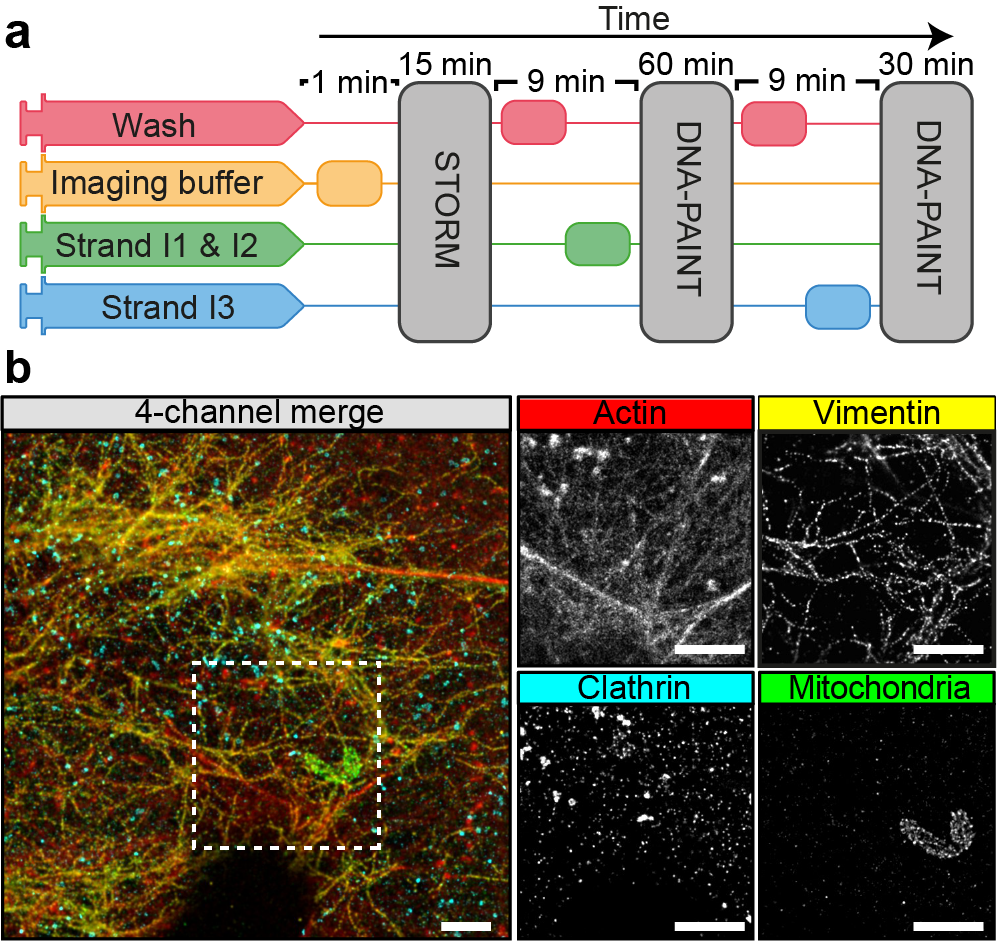
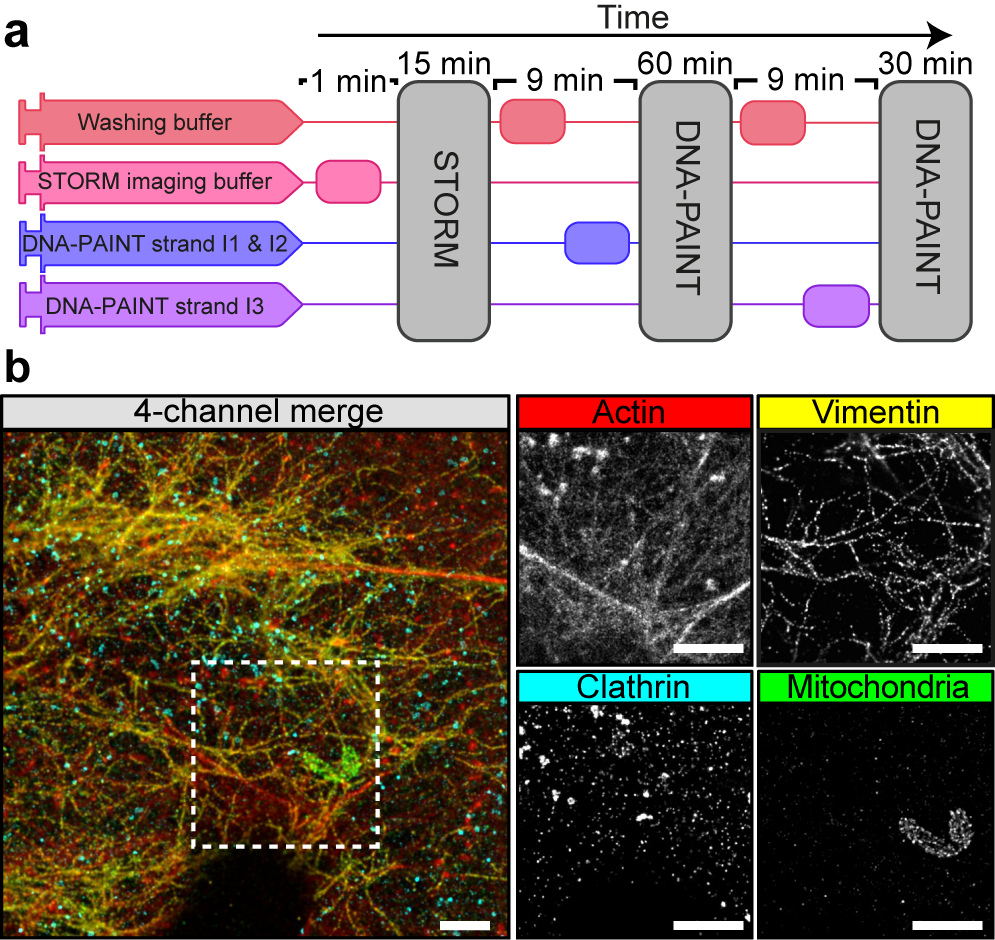
Christophe pass on the manuscript

diff --git a/01_Article_MainText.tex b/01_Article_MainText.tex
@@ -27,7 +27,7 @@
 \affil[2]{Department of Cell and Developmental Biology, University College London, London, UK}
 \affil[3]{The Francis Crick Institute, London, UK}
 \affil[4]{Centre for Mathematics and Physics in Life Sciences and Experimental Biology (CoMPLEX), University College London, London, UK}
-\affil[5]{Aix Marseille Université, CNRS, INP UMR7051, Marseille, France}
+\affil[5]{Aix-Marseille Univ, CNRS, INP, Inst Neurophysiopathol, NeuroCyto, Marseille, France}
 \affil[6]{Institute for the Physics of Living Systems, University College London, London, UK}
 \affil[7]{Department of Molecular Biosciences, The Wenner-Gren Institute, Stockholm University, Stockholm, Sweden}
 
@@ -39,14 +39,14 @@
 \begin{abstract}
 %Lets try to keep the abstract between 70-150 words, I have noticed no guidance
 
-Super-Resolution Microscopy has become essential for the study of many nanoscale biological processes. This type of imaging considerably relies on specialised image analysis tools to routinely process large volumes of recorded data and robustly extract underlying quantitative information. In recent years, our team has built an image analysis framework for Super-Resolution Microscopy that is high-performance, open-source and ease of use. We name it NanoJ - a reference to the popular ImageJ software it was developed for. In this paper, we highlight the current capabilities of NanoJ for use in several essential steps of microscopy studies: spatiotemporal alignment of raw data (NanoJ-Core), Super-Resolution image reconstruction (NanoJ-SRRF), image quality assessment (NanoJ-SQUIRREL), structural modelling (NanoJ-VirusMapper) and control of the sample environment (NanoJ-Fluidics). We are constantly expanding NanoJ with the aim to improve quantitative analysis and reliability of biological microscopy studies.
+Super-resolution microscopy has become essential for the study of nanoscale biological processes. This type of imaging often implies the use of specialised image analysis tools to process a large volume of recorded data and extract quantitative information. In recent years, our team has built an open-source image analysis framework for super-resolution microscopy designed to combine for high performance and ease of use. We named it NanoJ - a reference to the popular ImageJ software it was developed for. In this paper, we highlight the current capabilities of NanoJ for several essential processing steps: spatiotemporal alignment of raw data (NanoJ-Core), super-resolution image reconstruction (NanoJ-SRRF), image quality assessment (NanoJ-SQUIRREL), structural modelling (NanoJ-VirusMapper) and control of the sample environment (NanoJ-Fluidics). We are constantly expanding NanoJ with the aim of improving quantitative analysis and thus foster the reliability of biological microscopy studies.
 
 \end {abstract}
 %TC:break main
 %the command above serves to have a word count for the abstract
 
 \begin{keywords}
-    ImageJ | Fiji | Super-Resolution Microscopy | Image Analysis | Fluidics | Resolution | Quantitative imaging | Modelling
+    ImageJ | Fiji | super-resolution microscopy | Image analysis | Fluidics | Resolution | Quantitative imaging | Modelling
 \end{keywords}
 
 \begin{corrauthor}
@@ -59,13 +59,13 @@ Super-Resolution Microscopy has become essential for the study of many nanoscale
 % ------------------------------------------------------------------------------------------------------------------------------------
 
 \subsection*{Introduction}
-Fluorescence microscopy has been ubiquitously used in biological studies since its invention in the 20\textsuperscript{th} century. It underpins most research observing structures and interactions between specifically labelled molecules, and allows the quantification of their dynamic behaviour in living cells \cite{rino2009frontiers}. Extraction of this biologically relevant quantitative information from fluorescence microscopy data typically requires digital image processing and analysis \cite{wheeler2017standard}. In recent years, Super-Resolution Microscopy (SRM) techniques \cite{betzig2006imaging,rust2006sub,hell1994breaking} have extended the spatial resolving power of fluorescence microscopy beyond that of the diffraction limit. However, most SRM techniques generate large quantities of data, often reaching several gigabytes of raw data for a single image, and thus require specialised high-performance image analysis tools.  Several SRM image processing packages are available, such as ThunderSTORM \cite{ovesny2014thunderstorm}, LAMA \cite{Malkusch2016LAMA} and SIMcheck \cite{schermelleh2015simcheck}, but each of these is focused on a specific type of SRM modality.
+Fluorescence microscopy has been ubiquitously used in biological studies since its invention in the 20\textsuperscript{th} century. It underpins most research observing structures and interactions between specifically labelled molecules, and allows the quantification of their dynamic behaviour in living cells \cite{rino2009frontiers}. Extraction of this biologically relevant quantitative information from fluorescence microscopy data typically requires digital image processing and analysis \cite{wheeler2017standard}. In recent years, Super-Resolution Microscopy (SRM) techniques \cite{betzig2006imaging,rust2006sub,hell1994breaking} have extended the spatial resolving power of fluorescence microscopy beyond that of the diffraction limit. However, most SRM techniques generate large quantities of raw data, often reaching several gigabytes for a single image, and thus requires specialised high-performance image analysis tools.  Several SRM image processing packages are available, such as ThunderSTORM \cite{ovesny2014thunderstorm}, LAMA \cite{Malkusch2016LAMA} and SIMcheck \cite{schermelleh2015simcheck}, but each of these is focused on a specific type of SRM modality.
   
  %TC:ignore
  \begin{figure}[!t]
     \centering
     \includegraphics[width=\linewidth]{Figures/FigureMain_v3.png}
-    \caption{\textbf{NanoJ framework.} Currently NanoJ consists of 5 modules dedicated to enable super-resolution imaging and analysis.}
+    \caption{\textbf{NanoJ framework.} Currently NanoJ consists of 5 modules dedicated to super-resolution imaging and analysis.}
     \label{fig:GeneralDiagram}
  \end{figure}
  %TC:endignore
@@ -91,7 +91,7 @@ Sample drift commonly occurs during the acquisition of SRM data, often as a resu
  \end{figure}
  %TC:endignore
 
- NanoJ breaks the task of drift correction into two distinct parts: estimation, followed by translation. As a first step NanoJ-Core estimates the linear drift between two images by calculating their cross-correlation matrix (CCM) (Fig. \ref{fig:DriftCorrection}b). The location of the peak intensity in the CCM determines the linear shift between the two images, and precise sub-pixel accuracy is achieved by up-scaling the CCM using a bicubic spline interpolation. Depending on the type of acquisition, the reference frame can either be the first frame of the raw data (e.g. for a fixed sample) or the immediately preceding frame (for a live sample). Fig. \ref{fig:DriftCorrection}d shows the drift in a 100-frame dataset as measured with respect to the first frame of the dataset. Once drift is estimated, the dataset can be directly corrected by analytically translating each individual frame using a bicubic spline interpolation (Fig. \ref{fig:DriftCorrection}c). The interpolation process will however change the noise properties of the resulting dataset \cite{blaysat2016effect}.
+ NanoJ breaks the task of drift correction into two distinct parts: estimation, followed by translation. As a first step NanoJ-Core estimates the linear drift between two images by calculating their cross-correlation matrix (CCM) (Fig. \ref{fig:DriftCorrection}b). The location of the peak intensity in the CCM determines the linear shift between the two images, and precise sub-pixel accuracy is achieved by up-scaling the CCM using a bicubic spline interpolation. Depending on the type of acquisition, the reference frame can either be the first frame of the raw data (e.g. for a fixed sample) or the immediately preceding frame (for a live sample). Fig. \ref{fig:DriftCorrection}d shows the drift in a 100-frame dataset as measured with respect to the first frame. Once drift is estimated, the dataset can be directly corrected by analytically translating each individual frame using a bicubic spline interpolation (Fig. \ref{fig:DriftCorrection}c). The interpolation process will however change the noise properties of the resulting dataset \cite{blaysat2016effect}.
  
  For the specific case of SMLM datasets with sparse blinking, there will only be a weak correlation across frames, as there is little observable structure conserved between consecutive time points. One common strategy to alleviate this low correlation is to add fiduciary landmarks to the sample, such as static fluorescent beads. Alternatively, NanoJ-Core can temporally bin the dataset thus increasing the correlation between binned frames and allowing their shift to be more accurately estimated \cite{mlodzianoski2011sample}. 
 
@@ -103,7 +103,7 @@ In multicolour fluorescence microscopy, images acquired in different spectral ch
  
  The shift between different spectral channels is usually inhomogeneous across a field of view, which prevents the use of typical CCM-based approaches such as the one described above in NanoJ-Core Drift Correction. In order to characterise the spectral misalignment across a field of view, it is necessary to image a sample that has the same structure present across several different wavelengths. Furthermore, the sample should contain structures occupying the whole field of view. A typical sample for this characterisation is a coverslip coated with a large number of beads labelled with multiple different dyes \cite{Demmerle2017}. Following multicolour imaging of this sample, NanoJ-Core can be used to calculate a non-linear two-dimensional spatial transform describing the misalignment for each channel relative to a 'reference' channel (Fig. \ref{fig:ChannelAlignment}a). NanoJ-Core can then apply these transforms to realign other multicolour datasets acquired using the same optical path (Fig. \ref{fig:ChannelAlignment}b) \cite{arganda2006consistent,annibale2012identification}. 
  
- To generate these non-linear misalignment fields NanoJ-Core first calculates local, quasi-linear misalignments between channels. This is achieved by dividing the image into small areas ('blocks'). For each block, the shift between the channel to be realigned and the reference channel is calculated by finding the cross-correlation peak position as shown in Fig. \ref{fig:DriftCorrection}a-b. These local shift values are then  interpolated across the whole field-of-view using an inverse distance weighting interpolation \cite{shepard1968two}, thus generating two smooth 'shift' maps describing the misalignments in the horizontal and vertical directions (Fig. \ref{fig:ChannelAlignment}b). For a given channel, each pixel value within the horizontal/vertical shift map indicates the horizontal/vertical displacement that needs to be applied to that pixel to align it with the reference channel. NanoJ-Core can then be used to apply these maps to align channels in the original dataset (e.g. Fig. \ref{fig:ChannelAlignment}a, 'After alignment') or other datasets provided they have been acquired using the same optical configuration.
+ To generate these non-linear misalignment fields NanoJ-Core first calculates local, quasi-linear misalignments between channels. This is achieved by dividing the image into small areas ('blocks'). For each block, the shift between the channel to be realigned and the reference channel is calculated by finding the cross-correlation peak position as shown in Fig. \ref{fig:DriftCorrection}a-b. These local shift values are then  interpolated across the whole field-of-view using an inverse distance weighting interpolation \cite{shepard1968two}. This generates two smooth 'shift' maps describing the misalignments in the horizontal and vertical directions (Fig. \ref{fig:ChannelAlignment}b). For a given channel, each pixel value within the horizontal/vertical shift map indicates the horizontal/vertical displacement that needs to be applied to that pixel to align it with the reference channel. NanoJ-Core can then be used to apply these maps to align channels in the original dataset (e.g. Fig. \ref{fig:ChannelAlignment}a, 'After alignment'), or other datasets, provided they have been acquired using the same optical configuration.
  
  \begin{figure}[!t]
     \centering
@@ -112,7 +112,7 @@ In multicolour fluorescence microscopy, images acquired in different spectral ch
     \label{fig:ChannelAlignment}
 \end{figure}
  
- NanoJ-Core performs the channel alignment correction by creating a new image representing each channel, where the intensity value for each pixel coordinate corresponds to the intensity value from the original image at the equivalent coordinate corrected for local shift. For the cases where these coordinates are not discrete (sub-pixel shift), a bicubic spline interpolation is used to recover pixel values in continuous space. Because the shift map can be extrapolated to continuous space, the alignment procedure obtained from diffraction-limited images can also easily be used to correct SRM datasets acquired using the same optics.
+ NanoJ-Core performs the channel alignment correction by creating a new image representing each channel, where the intensity value for each pixel coordinate corresponds to the intensity value from the original image at the equivalent coordinate corrected for local shift. For cases in which these coordinates are not discrete (sub-pixel shift), a bicubic spline interpolation is used to recover pixel values in continuous space. Because the shift map can be extrapolated to continuous space, the alignment procedure obtained from diffraction-limited images can also easily be used to correct SRM datasets acquired using the same optics.
  
 \subsection*{NanoJ-SRRF: Live-Cell Super-Resolution Imaging}
 
@@ -129,16 +129,16 @@ In multicolour fluorescence microscopy, images acquired in different spectral ch
  
  SRRF is based on similar principles to SMLM, however with the key difference that it does not rely on the detection of spatio-temporally isolated fluorophores. Instead, SRRF generates a magnified pixel grid where each pixel value relates to the probability of fluorophores existing in that corresponding region of space. To do this, SRRF calculates the local radial symmetry ('radiality') in each pixel of the magnified image using local intensity gradient information. The obtained radiality value will be high when a point-spread-function (PSF) profile transiently becomes dominant, highlighting the presence of a fluorescent molecule at that location. Furthermore, the fluctuations of radiality values follow the underlying natural intensity fluctuations of fluorophores, which have a distinct temporal signature to that of noise \cite{dertinger2009fast}. A temporal correlation of the radiality at each pixel can then be projected into a final image, where the structures of interest can be better resolved (Fig. \ref{fig:SRRF}).
 
- SRRF is highly compatible with live-cell SRM and allows for long time-lapse acquisitions \cite{culley2018srrf}. Fig. \ref{fig:SRRF}a-c show a typical live-cell SRRF acquisition of a Cos7 cell expressing UtrCH-GFP (an F-actin-binding protein) imaged at 33.3 Hz for > 30 min with no perceivable phototoxicity. Here, SRRF allows observation of actin dynamics at super-resolution.
+ SRRF is highly suited for live-cell SRM and allows for long SRM time-lapse acquisitions \cite{culley2018srrf}. Fig. \ref{fig:SRRF}a-c shows a typical live-cell SRRF acquisition of a Cos7 cell expressing UtrCH-GFP (an F-actin-binding protein) imaged at 33.3 Hz for > 30 min. SRRF allows the observation of protein dynamics (e.g. actin) during long periods with no perceivable phototoxicity. 
  
  NanoJ-SRRF, the software implementation of the SRRF algorithm, uses GPU high-performance computing whenever possible to accelerate the radial symmetry calculations. This is achieved by implementing a large set of the required calculations in OpenCL, with a fallback of execution to the CPU if a compatible graphics card is not detected. NanoJ-SRRF can use a drift-table as an additional input, dynamically using its values to compensate for unwanted sample drift during the calculation of radial symmetries and temporal correlations.
 
 \subsection*{NanoJ-SQUIRREL: Estimating Image Quality}
-SRM techniques are more complex than conventional diffraction-limited microscopy. This complexity arises from the sample preparation requirements (SMLM), the microscope hardware (STED, SIM), and the post-acquisition image processing (SMLM, SIM). Inappropriate choices in any of these underlying variables can lead to artefacts within the final image and the potential for false conclusions to be drawn. NanoJ-SQUIRREL (Super-resolution Quantitative Image Rating and Reporting of Error Locations) is an algorithm that highlights the presence of artefacts in super-resolution images. It does so by calculating quantitative maps showing both local SRM image quality and resolution \cite{culley2018quantitative}, and can thus be used to optimise acquisition pipelines \cite{culley2018srrf}.
+SRM techniques are more complex than conventional diffraction-limited microscopy. This complexity arises from the sample preparation requirements (SMLM), the microscope hardware (STED, SIM), and the post-acquisition image processing (SMLM, SIM). Unsuitable choices in any of these underlying variables can lead to artefacts within the final image and the potential for false conclusions to be drawn. NanoJ-SQUIRREL (Super-resolution Quantitative Image Rating and Reporting of Error Locations) is an algorithm that highlights the presence of artefacts in super-resolution images. It does so by calculating quantitative maps showing both local SRM image quality and resolution \cite{culley2018quantitative}, and can thus be used to optimise acquisition pipelines \cite{culley2018srrf}.
 
  The central concept of SQUIRREL is that a diffraction-limited image and the corresponding SRM image of the same region should contain the same underlying structure, just at different resolutions. Thus the diffraction-limited image can be treated as a high-confidence benchmark against which the SRM image can be compared. The SQUIRREL image quality assessment algorithm formalises this comparison analytically.
 
-NanoJ-SQUIRREL quality assessment requires the user to provide an acquired diffraction-limited `reference’ image and SRM image of the same structure (Fig. \ref{fig:SQUIRREL}a). As both images represent the underlying fluorophore distribution but at different resolutions, there exists a blurring function that can convert the SRM image into its diffraction-limited equivalent. SQUIRREL calculates this blurring function and applies it to the SRM image, and the blurred image is then compared against the reference. This generates three quality indicators. An `error map’ is produced that maps the discrepancy between the blurred SRM image and the reference image at every pixel (Fig. \ref{fig:SQUIRREL}b). This highlights regions where the super-resolution image is inconsistent with the reference image. For example, the three insets in Fig. \ref{fig:SQUIRREL}b show typical SMLM artefacts including incomplete structures and inter-structure mislocalisation.  Two global quality metrics are also generated for each image: the RSP (Resolution Scaled Pearson’s Correlation Coefficient) and the RSE (Resolution Scaled Error). The RSP can take a value in the interval [-1,1] and describes the structural agreement between the super-resolution and reference images. Here, higher values indicate better agreement, with an RSP of 1 indicating a perfect structural match. The RSE describes the sum intensity mismatch between the super-resolution and reference images; in this case lower values represent better agreement with a value of 0 indicating a perfect intensity match.
+NanoJ-SQUIRREL quality assessment requires the user to provide an acquired diffraction-limited `reference’ image and SRM image of the same structure (Fig. \ref{fig:SQUIRREL}a). As both images represent the underlying fluorophore distribution but at different resolutions, there exists a blurring function that can convert the SRM image into its diffraction-limited equivalent. SQUIRREL calculates this blurring function and applies it to the SRM image. The blurred image is then compared against the reference. This generates three quality indicators. An `error map’ is produced that maps the discrepancy between the blurred SRM image and the reference image at every pixel (Fig. \ref{fig:SQUIRREL}b). This highlights regions where the super-resolution image is inconsistent with the reference image. For example, the three insets in Fig. \ref{fig:SQUIRREL}b show typical SMLM artefacts including incomplete structures and inter-structure mislocalisation.  Two global quality metrics are also generated for each image: the RSP (Resolution Scaled Pearson’s Correlation Coefficient) and the RSE (Resolution Scaled Error). The RSP can take a value in the interval [-1,1] and describes the structural agreement between the super-resolution and reference images. Here, higher values indicate better agreement, with an RSP of 1 indicating a perfect structural match. The RSE describes the sum intensity mismatch between the super-resolution and reference images; in this case lower values represent better agreement with a value of 0 indicating a perfect intensity match.
 
  %TC:ignore
  \begin{figure}[!t]
@@ -166,7 +166,7 @@ It is important to note that high resolution (that is, a low FRC value) does not
     \label{fig:VirusMapper}
  \end{figure}
 
- The SPA implementation of VirusMapper facilitates automatic processing of multiple images to detect, segment, align, classify and average thousands of individual structures. Unlike other applications of the technique it is entirely general, assuming no underlying symmetry or other properties of the imaged structure. Here, we illustrate this with models of components of vaccinia virus \cite{FieldsVirology2013}, a large mammalian virus with three distinct substructures: a core, lateral bodies (LBs) and a membrane. All three substructures were labelled on viral particles and imaged with Structured Illumination Microscopy (SIM) \cite{gustafsson2000surpassing} (Fig. \ref{fig:VirusMapper}a, top). The SIM images from each channel were then independently processed with VirusMapper to create models of the three components of the virus (Fig. \ref{fig:VirusMapper}a, bottom). Additionally, a key advantage of VirusMapper is that models from different channels can be aligned to each other.
+ The SPA implementation of VirusMapper facilitates automatic processing of multiple images to detect, segment, align, classify and average thousands of individual structures. Unlike other SPA applications it is entirely general, assuming no underlying symmetry or other properties of the imaged structure. Here, we illustrate this with models of three distinct vaccinia virus \cite{FieldsVirology2013} substructures: core, lateral bodies (LBs) and membrane. All three substructures were labelled on viral particles and imaged with Structured Illumination Microscopy (SIM) \cite{gustafsson2000surpassing} (Fig. \ref{fig:VirusMapper}a, top). The SIM images from each channel were then independently processed with VirusMapper to create models of the three components of the virus (Fig. \ref{fig:VirusMapper}a, bottom). Additionally, a key advantage of VirusMapper is that models from different channels can be aligned to each other.
 
  VirusMapper is capable of identifying and analysing different orientations of the same structure. Here, we highlight this capability on a study of the division ring in the archaeal type strain \emph{Sulfolobus acidocaldarius} DSM639 (Fig. \ref{fig:VirusMapper}b). \emph{Sulfolobus} cells were labelled for their outer S-layer and the division ring as marked by ESCRT-III proteins. The models from both channels were built from aligning the S-layer channel.
 
@@ -174,25 +174,27 @@ It is important to note that high resolution (that is, a low FRC value) does not
 
 \subsection*{NanoJ-Fluidics: Sample Liquid Exchange}
 
- NanoJ-Fluidics is a hardware and software framework for precise and accurate automated fluidics exchange \cite{almada2018automating}. It was developed to enable automation of sample treatment and labelling of live or fixed cells directly on the microscope stage \cite{dix2018role}. The NanoJ-Fluidics hardware component is composed of customisable, low-cost and robust LEGO® syringe pumps and a fluid removal peristaltic pump, both controlled by simple Arduino® electronics. It is compatible with off-the-shelf imaging chambers, without the need for any microfabrication. Its control software (the NanoJ-Fluidics module) is ImageJ-based and can be fully integrated with microscopy acquisition software. We have demonstrated the applicability of NanoJ-Fluidics in multiple experimental contexts, including \textit{in-situ} correlative live-to-fixed super-resolution imaging, and multimodal super-resolution imaging and event-driven fixation \cite{almada2018automating}. The approach can also be easily extended to protocol optimization (e.g. titrating antibody concentrations or adjusting imaging buffer composition) or liquid exchange protocols integrated with the imaging (e.g. drug delivery or automated event-driven fixation).
+ NanoJ-Fluidics is a hardware and software framework for precise and accurate automated liquids exchange \cite{almada2018automating}. It was developed to enable automation of sample treatment and labelling of live or fixed cells directly on the microscope stage \cite{almada2018automating, dix2018role}. The NanoJ-Fluidics hardware component is composed of customisable, low-cost and robust LEGO® syringe pumps and a liquid removal peristaltic pump, both controlled by simple Arduino® electronics. It is compatible with off-the-shelf imaging chambers, without the need for any microfabrication. Its control software (the NanoJ-Fluidics module) is ImageJ-based and can be fully integrated with microscopy acquisition software. We have demonstrated the applicability of NanoJ-Fluidics in multiple experimental contexts, including \textit{in-situ} correlative live-to-fixed super-resolution imaging, multimodal super-resolution imaging and event-driven fixation \cite{almada2018automating}. The approach can also be easily extended to protocol optimization (e.g. titrating antibody concentrations or adjusting imaging buffer composition) or liquid exchange protocols integrated with the imaging (e.g. drug delivery or automated event-driven fixation).
 
- Here we demonstrate NanoJ-Fluidics by acquiring a high-quality multicolour SMLM dataset, where STORM and DNA-PAINT \cite{jungmann2014multiplexed} imaging strategies are combined into a single workflow (Fig. \ref{fig:PAINT}a). This approach is particularly suited to multi-target imaging \cite{dempsey2011evaluation}, which is difficult to achieve with standard sample preparation techniques due to the low number of suitable fluorophores available for SMLM microscopy. With NanoJ-Fluidics we can seamlessly perform all labelling steps in an automated and reliable manner directly on the microscope stage. We showcase this with a 4-channel acquisition of actin with STORM and mitochondria, vimentin and clathrin with DNA-PAINT (Fig. \ref{fig:PAINT}b). 
+ Here we demonstrate NanoJ-Fluidics by acquiring a high-quality multicolour SMLM dataset, where STORM and DNA-PAINT \cite{jungmann2014multiplexed} imaging strategies are combined into a single workflow (Fig. \ref{fig:PAINT}a). This approach is particularly suited to multi-target imaging \cite{dempsey2011evaluation}, which is difficult to achieve with standard sample preparation techniques due to the low number of suitable fluorophores available for SMLM microscopy. With NanoJ-Fluidics we can seamlessly perform all labelling steps in an automated and reliable manner directly on the microscope stage. We showcase this using a 4-channel acquisition of actin with STORM and mitochondria, vimentin and clathrin with DNA-PAINT (Fig. \ref{fig:PAINT}b). 
 
  NanoJ-Fluidics' highly customizable nature has already spawned several alternative designs from the community (\href{https://github.com/HenriquesLab/NanoJ-Fluidics/wiki}{https://github.com/HenriquesLab/NanoJ-Fluidics/wiki}), which are in constant development. NanoJ-Fluidics makes imaging protocol automation readily available to researchers, hence improving not only the reliability and repeatability of the protocols, but also the range of protocols that are achievable.  
 
  %TC:ignore
  \begin{figure}[!t]
     \centering
-    \includegraphics{Figures/FigurePumpy_v3.png}
+    \includegraphics{Figures/FigurePumpy_v4.png}
     \caption{\textbf{Automated DNA-PAINT and STORM imaging.} \textbf{a)} NanoJ-Fluidics workflow used for multi-color STORM and DNA-PAINT imaging. \textbf{b)} Left: 4-channel merge of STORM and DNA-PAINT with actin (red), vimentin (yellow), clathrin (cyan) and mitochondria (green). Right: Single-channel images from the inset. Scale bars: 2 \textmu{}m.}
     \label{fig:PAINT}
  \end{figure}
  %TC:endignore
 
 \subsection*{Discussion and Future Perspectives}
- The NanoJ framework provides a unique and comprehensive set of tools to support cellular imaging along the experimental pathway, from data acquisition and protocol optimisation through to structural quantification. It offers powerful solutions to common pitfalls of image analysis such as drift correction and channel alignment (NanoJ-Core). Our work on developing analytical approaches for SRM (NanoJ-SRRF) aligns with the general aim of the community to extend SRM to live-cell applications. We also emphasise the importance of quantitatively assessing SRM image quality by using spatially-varying FRC resolution maps, error (artefact) mapping, and image quality metrics (NanoJ-SQUIRREL). Our work in this context aims to improve standards in assessing and reporting microscopy data. Typical live-cell imaging experiments in our lab systematically use drift correction and channel alignment on raw data, followed by SRRF analysis for SRM image reconstruction, and then quality checking and experiment optimisation using SQUIRREL. This ensures that our quantitative analyses are of the highest scientific standards. NanoJ has been designed for high-performance image analysis, using GPU computing when possible, ensuring the quick processing of large data volumes \cite{herbert2012single,pereira2015high,almada2015palm,beghin2017localization,douglass2016super}. Furthermore, the modular nature of NanoJ and its integration within ImageJ allow it to be used in conjunction with other cutting edge SRM analysis software \cite{sage2018super,weigert2017content,henriques2010quickpalm, laine2018milesim}. 
+ The NanoJ framework provides a unique and comprehensive set of tools to support fluorescence imaging, from data acquisition and protocol optimisation to structural quantification. It offers powerful and user-friendly solutions to common pitfalls of image analysis such as drift correction and channel alignment (NanoJ-Core). It extends the tools available for SRM to expert and novice users alike. It aligns with the general aim of the community to extend SRM to live-cell applications, offering the first open-source analytical approach for live-cell SRM imaging using any modern fluorescence microscope (NanoJ-SRRF). It Offers a way to correlate dynamic live-cell data with high-resolution fixed-cell data in an automated and highly reproducible manner (NanoJ-Fluidics). It Provides an analytical tool for the generation of accurate, high-content, molecular specific models and detection of nanoscale changes in biological architectures (NanoJ-VirusMapper). Finally, the NanoJ framework provides tools to quantitatively assess SRM image quality, by using spatially-varying FRC resolution maps, error (artefact) mapping, and image quality metrics (NanoJ-SQUIRREL). This aims to improve standards in assessing and reporting microscopy data. 
+ The NanoJ framework allows users to access user-friendly yet robust analytical tools in tandem with new approaches to perform live-cell SRM experiments. A typical SRM live-cell imaging experiment using the NanoJ framework would entail acquiring a SRRF compatible raw data set in any modern fluorescence microscope; performing drift correction and channel alignment; followed by SRRF analysis for SRM image reconstruction; and finally, quality checking using SQUIRREL. A pipeline that can be used for any biological question, seamlessly repeated for imaging protocol optimisation and complemented and expanded taking advantage of NanoJ-Fluidics and/or NanoJ-VirusMapper. The NanoJ-enabled scientific pipeline allows any user, regardless of the experience level, to seamlessly obtain SRM quantitative data of the highest scientific quality. 
+ The NanoJ framework  was developed to facilitate access and expand the options of research groups using fluorescence microscopy. Hence, speed, reliability, performance and cross-compatibility are of paramount importance. In this context, NanoJ has been designed for high-performance image analysis, using GPU computing, ensuring the quick processing of large data volumes \cite{herbert2012single,pereira2015high,almada2015palm,beghin2017localization,douglass2016super}. Further, NanoJ' modular nature, open-source nature and its integration within ImageJ allow it to be used in conjunction with other analysis software packages \cite{sage2018super,weigert2017content,henriques2010quickpalm, laine2018milesim}. We are continuously supporting, adapting and expanding the framework to include new approaches. 
  
- We are continuously supporting, adapting and expanding the framework to include new approaches. We hope that NanoJ can set a standard of useful, open-source, high performance methods for the whole microscopy community.
+ NanoJ will set the standard of useful, open-source, high performance methods for the whole microscopy community.
  
 \subsection*{Software and Hardware Availability}
  NanoJ follows open-source software and hardware standards. Each of its modules can be installed by enabling the corresponding code repository in Fiji or by following the instructions on the corresponding websites:
@@ -206,7 +208,7 @@ It is important to note that high resolution (that is, a low FRC value) does not
 \end{itemize}
 
 \begin{acknowledgements}
- We thank Prof. Ralf Jungmann at Max Planck Institute of Biochemistry Munich for reagents and advice. This work was funded by grants from the UK Biotechnology and Biological Sciences Research Council (BB/M022374/1; BB/P027431/1; BB/R000697/1; BB/S507532/1) (R.H., P.M.P. and R.F.L.), the UK Medical Research Council (MR/K015826/1) (R.H.), the Wellcome Trust (203276/Z/16/Z) (S.C., R.H and B.B.) and the Centre National de la Recherche Scientifique (CNRS ATIP-AVENIR program AO2016) (C.L.). N.G. and R.D.M.G funded by the Engineering and Physical Sciences Research Council (EP/L504889/1). P.A. was supported by a PhD fellowship from the UK’s Biotechnology and Biological Sciences Research Council. Research by B.B. was supported by UCL, Cancer Research UK (C1529/A17343), and MRC (MC\_CF12266). K.L.T. and G.T.R. supported by a 4-year MRC Research Studentship.
+ We thank Prof. Ralf Jungmann at Max Planck Institute of Biochemistry Munich for reagents and advice. This work was funded by grants from the UK Biotechnology and Biological Sciences Research Council (BB/M022374/1; BB/P027431/1; BB/R000697/1; BB/S507532/1) (R.H., P.M.P. and R.F.L.), the UK Medical Research Council (MR/K015826/1) (R.H.), the Wellcome Trust (203276/Z/16/Z) (S.C., R.H and B.B.), Core funding to the MRC Laboratory for Molecular Cell Biology, University College London (MC\_UU12018/7) (J.M.), the European Research Council (649101—UbiProPox) (J.M.) and the Centre National de la Recherche Scientifique (CNRS ATIP-AVENIR program AO2016) (C.L.). N.G. and R.D.M.G funded by the Engineering and Physical Sciences Research Council (EP/L504889/1). P.A. was supported by a PhD fellowship from the UK’s Biotechnology and Biological Sciences Research Council. Research by B.B. was supported by UCL, Cancer Research UK (C1529/A17343), and MRC (MC\_CF12266). K.L.T. and G.T.R. supported by a 4-year MRC Research Studentship. D.A. is presently a Marie Curie fellow (Marie Sklodowska-Curie 750673).
 \end{acknowledgements}
 
 \begin{contributions}

diff --git a/03_Article_Supplementary.tex b/03_Article_Supplementary.tex
@@ -31,12 +31,12 @@
 
 \newpage
 \section{Drift correction}
-FluoCells slide \#2 (ThermoFisher) were imaged on a Ti2 microscope (Nikon) using a 100x TIRF objective (CFI Apochromat TIRF 100XC Oil, Nikon) onto a Prime 95B camera (Photometrics) in the GFP channel (tubulin), using an LED illumination source. 100 frames were acquired at 40 Hz and an artificially large drift was applied digitally.
+FluoCells slide \#2 (ThermoFisher) were imaged on a Ti2 microscope (Nikon) (Fig. \ref{DriftCorrection}) using a 100x TIRF objective (CFI Apochromat TIRF 100XC Oil, Nikon) onto a Prime 95B camera (Photometrics) in the GFP channel (tubulin), using an LED illumination source. 100 frames were acquired at 40 Hz and an artificially large drift was applied digitally.
 
 
 \section{Channel alignment}
 
-Multicolor beads (TetraSpeck™ Microspheres, 0.1 µm, fluorescent blue/green/orange/dark red, ThermoFisher) were prepared on a \#1.5 cover slip and embedded in water before being sealed with nail polish. The beads were then imaged on a Ti2 microscope (Nikon) using a 100x TIRF objective (CFI Apochromat TIRF 100XC Oil, Nikon) onto a Prime 95B camera (Photometrics), in both GFP and mCherry channels, using an LED illumination source. 
+Multicolor beads (TetraSpeck™ Microspheres, 0.1 µm, fluorescent blue/green/orange/dark red, ThermoFisher) were prepared on a \#1.5 cover slip and embedded in water before being sealed with nail polish. The beads were then imaged on a Ti2 microscope (Nikon) (Fig. \ref{ChannelAlignment}) using a 100x TIRF objective (CFI Apochromat TIRF 100XC Oil, Nikon) onto a Prime 95B camera (Photometrics), in both GFP and mCherry channels, using an LED illumination source. 
 
 \section{SRRF}
 
@@ -50,7 +50,7 @@ For live-cell imaging, Cos7 cells were seeded on 25mm-diameter \#1.5 coverslips 
 
 \subsection{Imaging}
 
-LED-illumination widefield imaging of Utrophin-GFP in live Cos7 cells (Fig. 2d–f) was performed at 37 °C and 5\% CO2 on a N-STORM microscope (Nikon). A 100x TIRF objective (APOCHROMAT 100x/1.49 Oil, Nikon) with additional 1.5x magnification was used to collect fluorescence onto an EMCCD camera (iXon Ultra 897, Andor), yielding a pixel size of 107 nm. For continuous imaging, frames were acquired for 30 min with 30 ms exposure time and 490 nm LED illumination at 5\% of maximum output. 
+LED-illumination widefield imaging of Utrophin-GFP in live Cos7 cells (Fig. \ref{fig:SRRF}) was performed at 37 °C and 5\% CO2 on a N-STORM microscope (Nikon). A 100x TIRF objective (APOCHROMAT 100x/1.49 Oil, Nikon) with additional 1.5x magnification was used to collect fluorescence onto an EMCCD camera (iXon Ultra 897, Andor), yielding a pixel size of 107 nm. For continuous imaging, frames were acquired for 30 min with 30 ms exposure time and 490 nm LED illumination at 5\% of maximum output. 
 
 \subsection{SRRF reconstruction}
 
@@ -61,7 +61,7 @@ The dataset was reconstructed using SRRF: magnification 5, radius 0.5, number of
 
 \subsection{Sample preparation}
 
-Cos7 cells were fixed with glutaraldehyde and labelled with two monoclonal mouse anti-alpha tubulin antibodies (DM1A and B-5-1-2, both from Sigma) and a goat anti-mouse Alexa Fluor-647-labelled secondary antibody (Thermo Fisher Scientific). Samples were mounted in Smart Buffer (Abbelight) for imaging.
+Cos7 cells were fixed with glutaraldehyde and labelled with two monoclonal mouse anti-alpha tubulin antibodies (DM1A and B-5-1-2, both from Sigma) and a goat anti-mouse Alexa Fluor-647-labelled secondary antibody (A21235, Thermo Fisher Scientific). Samples were mounted in Smart Buffer (Abbelight) for imaging.
 
 \subsection{STORM acquisition and reconstruction}
 
